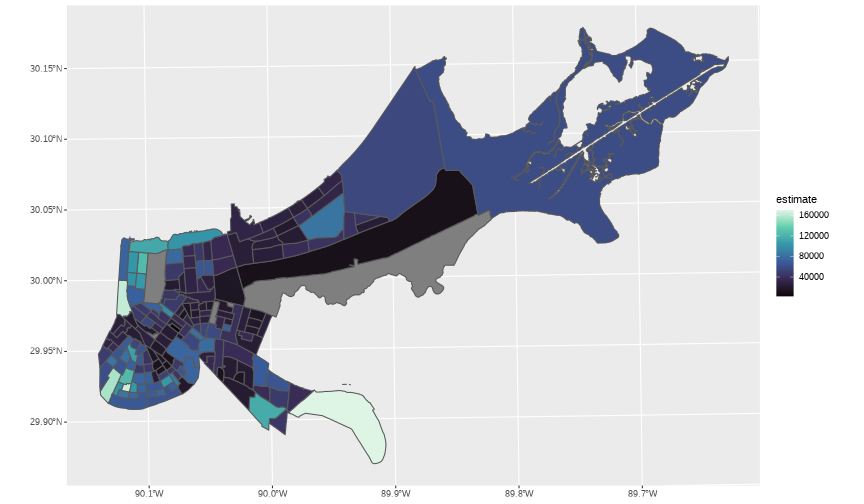
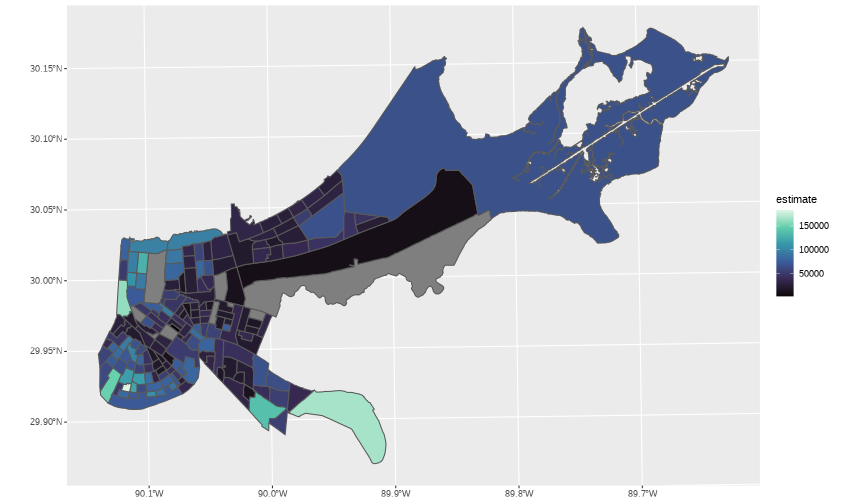
hard-code year = 2020 for the mapping demo

diff --git a/acs-data/index.html b/acs-data/index.html
@@ -808,6 +808,7 @@ orleans_income &lt;- get_acs(
   variables = "B19013_001",
   state = "LA",
   county = "Orleans",
+  year = 2020,
   geometry = TRUE
 )
 ```
@@ -820,34 +821,34 @@ orleans_income
 ```
 
 ```
-## Simple feature collection with 177 features and 5 fields
+## Simple feature collection with 184 features and 5 fields
 ## Geometry type: MULTIPOLYGON
 ## Dimension:     XY
 ## Bounding box:  xmin: -90.14007 ymin: 29.86666 xmax: -89.62552 ymax: 30.19866
 ## Geodetic CRS:  NAD83
 ## First 10 features:
-##          GEOID                                          NAME   variable
-## 1  22071001722 Census Tract 17.22, Orleans Parish, Louisiana B19013_001
-## 2  22071000701  Census Tract 7.01, Orleans Parish, Louisiana B19013_001
-## 3  22071002900    Census Tract 29, Orleans Parish, Louisiana B19013_001
-## 4  22071013500   Census Tract 135, Orleans Parish, Louisiana B19013_001
-## 5  22071001744 Census Tract 17.44, Orleans Parish, Louisiana B19013_001
-## 6  22071002800    Census Tract 28, Orleans Parish, Louisiana B19013_001
-## 7  22071007606 Census Tract 76.06, Orleans Parish, Louisiana B19013_001
-## 8  22071002501 Census Tract 25.01, Orleans Parish, Louisiana B19013_001
-## 9  22071014500   Census Tract 145, Orleans Parish, Louisiana B19013_001
-## 10 22071002200    Census Tract 22, Orleans Parish, Louisiana B19013_001
+##          GEOID                                           NAME   variable
+## 1  22071003307  Census Tract 33.07, Orleans Parish, Louisiana B19013_001
+## 2  22071008400     Census Tract 84, Orleans Parish, Louisiana B19013_001
+## 3  22071009000     Census Tract 90, Orleans Parish, Louisiana B19013_001
+## 4  22071000902   Census Tract 9.02, Orleans Parish, Louisiana B19013_001
+## 5  22071009900     Census Tract 99, Orleans Parish, Louisiana B19013_001
+## 6  22071004600     Census Tract 46, Orleans Parish, Louisiana B19013_001
+## 7  22071010700    Census Tract 107, Orleans Parish, Louisiana B19013_001
+## 8  22071001301  Census Tract 13.01, Orleans Parish, Louisiana B19013_001
+## 9  22071012102 Census Tract 121.02, Orleans Parish, Louisiana B19013_001
+## 10 22071001754  Census Tract 17.54, Orleans Parish, Louisiana B19013_001
 ##    estimate   moe                       geometry
-## 1     24857  6098 MULTIPOLYGON (((-90.014 30....
-## 2     25793  3518 MULTIPOLYGON (((-90.0274 29...
-## 3     19892  2571 MULTIPOLYGON (((-90.06466 2...
-## 4     55614  9050 MULTIPOLYGON (((-90.07065 2...
-## 5     20153  5142 MULTIPOLYGON (((-89.99692 3...
-## 6     14286  4815 MULTIPOLYGON (((-90.07155 2...
-## 7     73929  8707 MULTIPOLYGON (((-90.12235 3...
-## 8     46250 13854 MULTIPOLYGON (((-90.06152 3...
-## 9        NA    NA MULTIPOLYGON (((-90.10029 2...
-## 10    18413  5748 MULTIPOLYGON (((-90.05221 2...
+## 1     14753  9772 MULTIPOLYGON (((-90.07408 3...
+## 2     42125  6372 MULTIPOLYGON (((-90.08514 2...
+## 3     78088 38392 MULTIPOLYGON (((-90.09018 2...
+## 4        NA    NA MULTIPOLYGON (((-90.01691 2...
+## 5     79798 13899 MULTIPOLYGON (((-90.10192 2...
+## 6     75246 23556 MULTIPOLYGON (((-90.10509 2...
+## 7     63250 15300 MULTIPOLYGON (((-90.10895 2...
+## 8     19464  8693 MULTIPOLYGON (((-90.04479 2...
+## 9     66000 12138 MULTIPOLYGON (((-90.12815 2...
+## 10    26439  9283 MULTIPOLYGON (((-89.99241 3...
 ```
 
 ---
@@ -928,6 +929,7 @@ orleans_erase &lt;- get_acs(
   state = "LA",
   county = "Orleans",
   geometry = TRUE,
+  year = 2020,
 * cb = FALSE
 ) %&gt;%
 * st_transform(26982) %&gt;%
